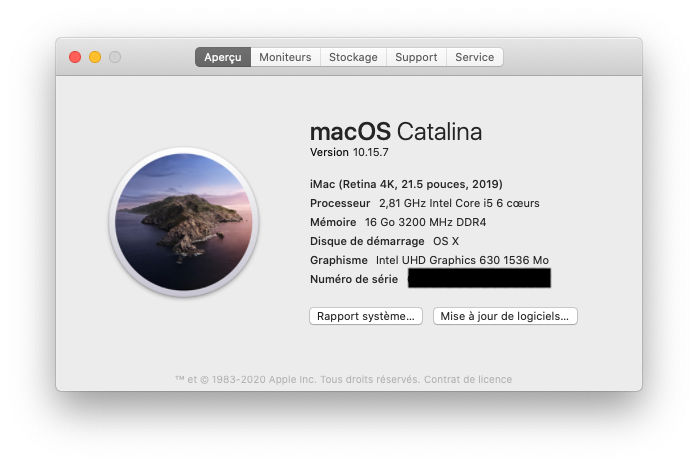
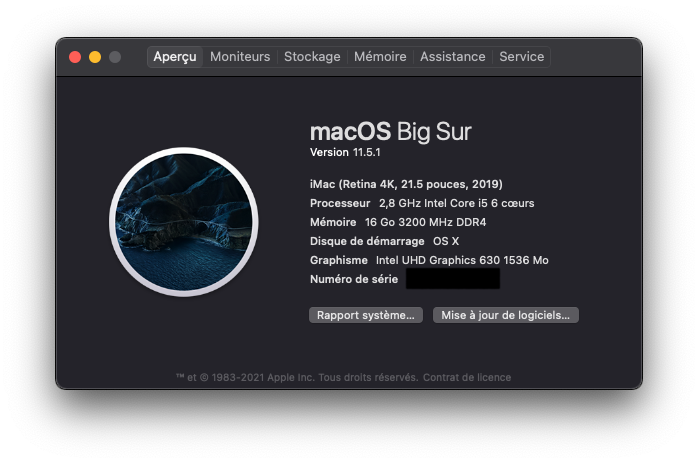
upgrade to Big Sur

diff --git a/README.md b/README.md
@@ -1,10 +1,14 @@
 # Hackintosh
 
-A Hackintosh running macOS 10.15.7 with a i5-8400 and a Gigabyte Z370-HD3P.
+A Hackintosh running macOS Big Sur 11.5.1 with a i5-8400 and a Gigabyte Z370-HD3P.
 
-![System spec](https://raw.githubusercontent.com/kinoute/Hack-Z370-HD3P-i5-8400/master/Pictures/system.png)
+![System spec](Pictures/system.png)
 
 ## Status
+
+### Aug 7th, 2021: Catalina to Big Sur (OpenCore)
+
+I smoothly made the upgrade to macOS Big Sur 11.5.1 through the System Preferences after a few days on Catalina and OpenCore. You can download the final EFI Folder running Catalina 10.15.7 with OpenCore 0.7.1 [here](https://ok) or browse the repo for this old version [here](https://github.com/kinoute/Hack-Z370-HD3P-i5-8400/tree/opencore-catalina-10-15-7).
 
 ### Jul 24th, 2021: Clover to OpenCore 0.7.1 (Catalina)
 
@@ -130,7 +134,7 @@ Then restart your Hackintosh. It should look better.
 
 ## Benchmarks
 
-![Geekbench](https://raw.githubusercontent.com/kinoute/Hack-Z370-HD3P-i5-8400/master/Pictures/geekbench.png)
+![Geekbench](Pictures/geekbench.png)
 
-Link: https://browser.geekbench.com/v4/cpu/15697612
+Link: https://browser.geekbench.com/v4/cpu/16277966
 
